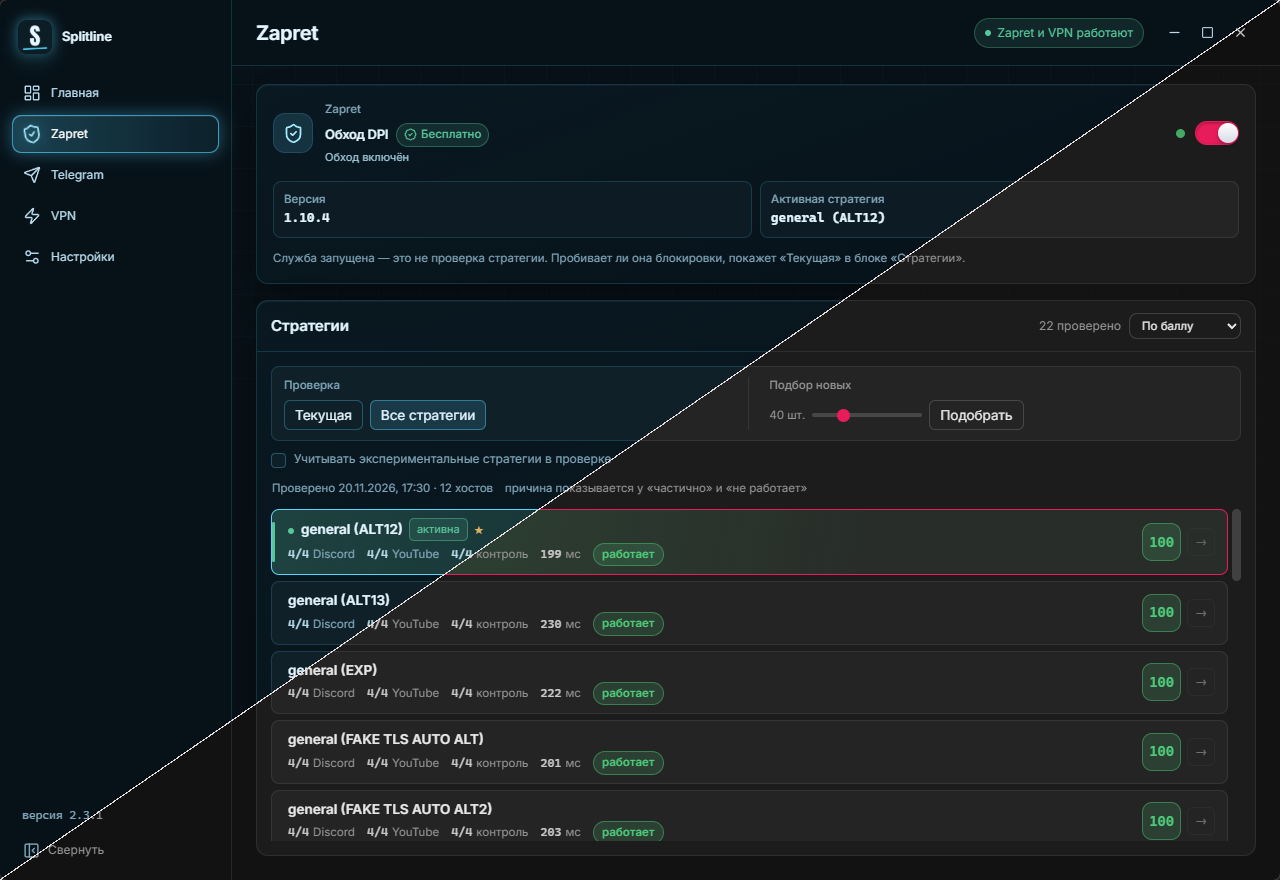
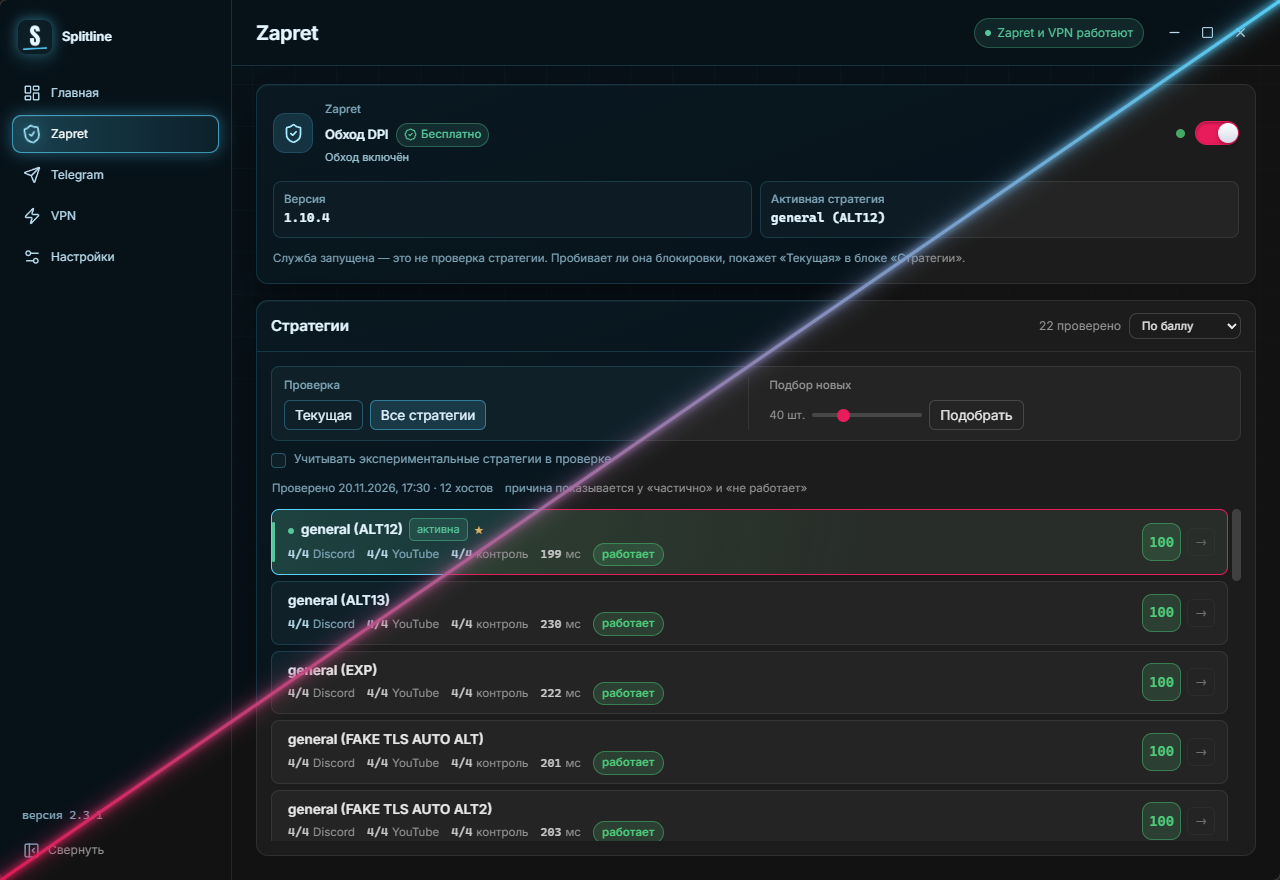
chore(dev): add a screenshot profile and trim release runs
npm run shot starts a dev instance with identifier com.zapret.ui.shot and SPLITLINE_APP_DIR pointing at %LOCALAPPDATA%\zapret-ui-shot, so it runs next to the portable app without touching its config. The script copies the data folder and -Fresh refreshes it. The env override is compiled into debug builds only.

scripts/compose-shot.ps1 stitches the two themes with the same accent glow as button hover instead of a plain white line.

CI now pushes only on master and skips docs/screenshot-only changes; release/** is checked through pull requests. Release is manual-only: a merge to master no longer rebuilds a published version, lint/tests/clippy are not repeated (CI already ran them), and an existing tag fails the run instead of silently skipping the release.

Changed region(s): [[0.0, 0.0, 1.0, 1.0]]

diff --git a/src-tauri/src/config.rs b/src-tauri/src/config.rs
@@ -6,6 +6,11 @@ pub const APP_DIR_NAME: &str = "zapret-ui";
 pub const CONFIG_FILE: &str = "config.json";
 pub const RUNTIME_DIR_NAME: &str = "runtime";
 
+/// Data folder override for the screenshot profile (`scripts/shot.ps1`).
+/// Release builds never set it: the dev instance points at its own copy of the
+/// config while the portable app keeps running next to it.
+pub const APP_DIR_ENV: &str = "SPLITLINE_APP_DIR";
+
 #[derive(Debug, Clone, Copy, PartialEq, Eq, Serialize, Deserialize)]
 #[serde(rename_all = "lowercase")]
 pub enum GameFilter {
@@ -279,7 +284,21 @@ impl Default for AppConfig {
 
 pub fn app_dir() -> PathBuf {
     let base = dirs::data_local_dir().unwrap_or_else(|| PathBuf::from("."));
-    base.join(APP_DIR_NAME)
+    // The override exists for `scripts/shot.ps1` only. Release builds keep the
+    // documented `%LOCALAPPDATA%\zapret-ui` folder no matter the environment.
+    #[cfg(debug_assertions)]
+    let override_dir = std::env::var_os(APP_DIR_ENV).map(PathBuf::from);
+    #[cfg(not(debug_assertions))]
+    let override_dir = None;
+    resolve_app_dir(base, override_dir)
+}
+
+/// `base/zapret-ui` by default; an explicitly set folder wins as-is.
+fn resolve_app_dir(base: PathBuf, override_dir: Option<PathBuf>) -> PathBuf {
+    match override_dir {
+        Some(dir) if !dir.as_os_str().is_empty() => dir,
+        _ => base.join(APP_DIR_NAME),
+    }
 }
 
 pub fn config_path() -> PathBuf {
@@ -474,6 +493,20 @@ mod tests {
             let json = serde_json::to_string(&cfg).expect("serialize");
             assert_eq!(parse_config(&json).expect("parse").theme, "carmine");
         }
+    }
+
+    #[test]
+    fn screenshot_profile_can_point_at_its_own_app_dir() {
+        let base = PathBuf::from(r"C:\base");
+        assert_eq!(resolve_app_dir(base.clone(), None), base.join(APP_DIR_NAME));
+        assert_eq!(
+            resolve_app_dir(base.clone(), Some(PathBuf::new())),
+            base.join(APP_DIR_NAME)
+        );
+        assert_eq!(
+            resolve_app_dir(base, Some(PathBuf::from(r"C:\shot"))),
+            PathBuf::from(r"C:\shot")
+        );
     }
 
     #[test]
